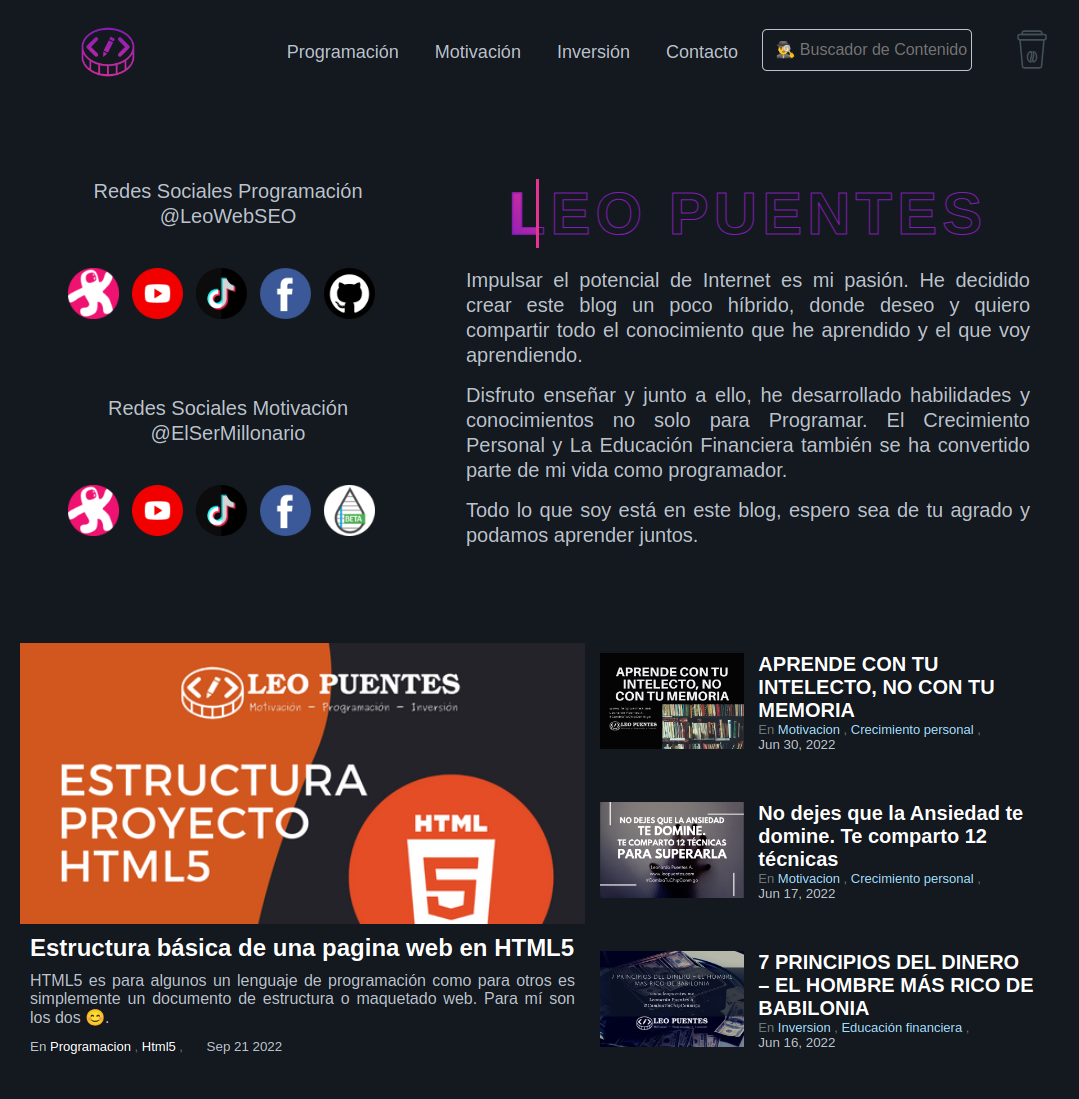
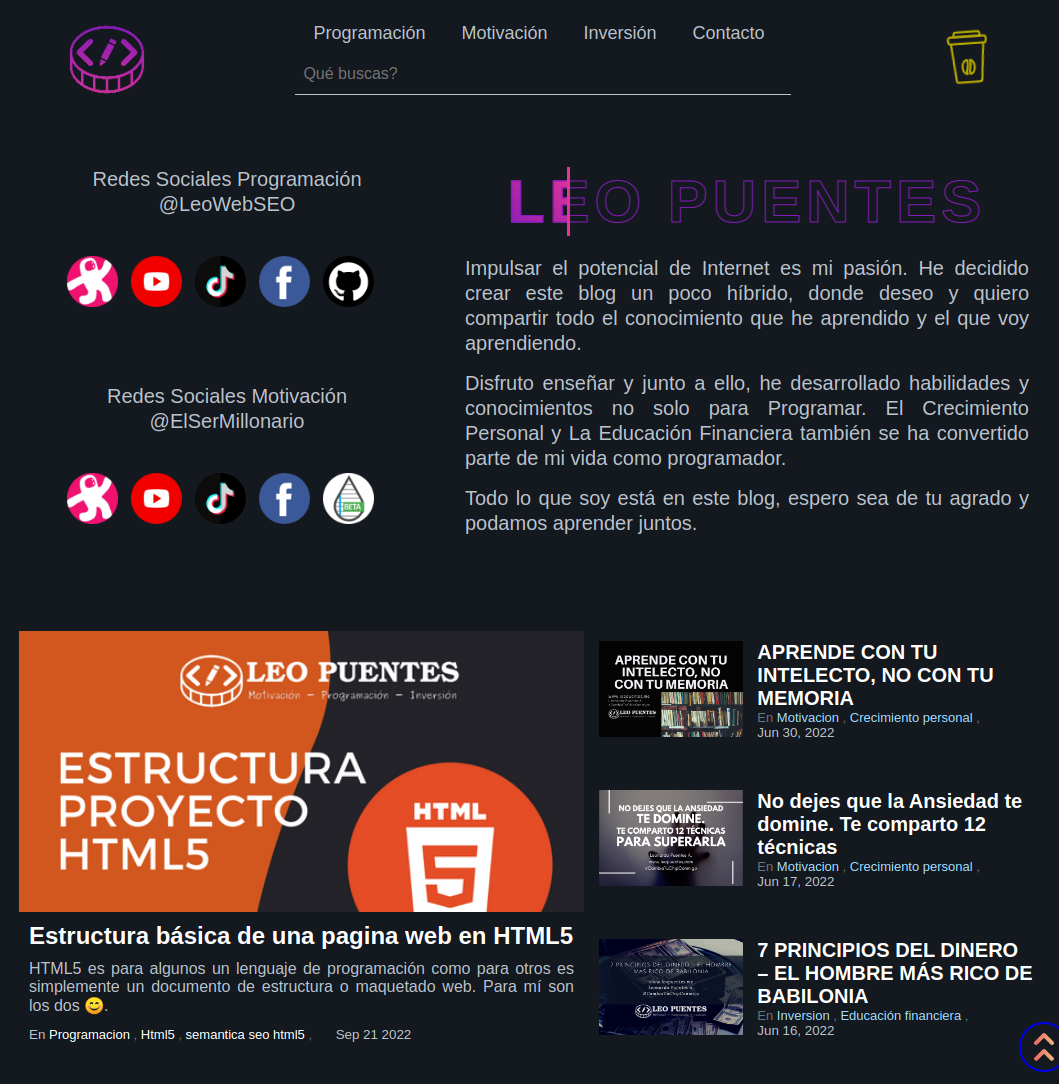
Version 2.0.0 Alpha - Produccion

diff --git a/_site/categorias.html b/_site/categorias.html
@@ -937,7 +937,7 @@
 <a href="/"><img src="/assets/images/logo/logo-leo-puentes.webp" alt="logo leo puentes"></a>
 <span>
     Copyright © 2022</a> By <a target="_blank" href="https://www.facebook.com/LeoWebSEO"><b>Leo Web SEO</b></a>.<br/>
-    Plantilla Hooka v1.0.9 Alpha
+    Plantilla Hooka v2.0.0 Alpha
 </span>
 <span>
     Desarrollado con <a target="_blank" href="https://jekyllrb.com/">Jekyll</a> - Servido por <a target="_blank" href="https://ipfs.io/"> IPFS</a>

diff --git a/_site/crecimiento-personal/5-habitos-exito.html b/_site/crecimiento-personal/5-habitos-exito.html
@@ -241,7 +241,7 @@
 <a href="/"><img src="/assets/images/logo/logo-leo-puentes.webp" alt="logo leo puentes"></a>
 <span>
     Copyright © 2022</a> By <a target="_blank" href="https://www.facebook.com/LeoWebSEO"><b>Leo Web SEO</b></a>.<br/>
-    Plantilla Hooka v1.0.9 Alpha
+    Plantilla Hooka v2.0.0 Alpha
 </span>
 <span>
     Desarrollado con <a target="_blank" href="https://jekyllrb.com/">Jekyll</a> - Servido por <a target="_blank" href="https://ipfs.io/"> IPFS</a>

diff --git a/_site/crecimiento-personal/aprender-intelecto-memoria.html b/_site/crecimiento-personal/aprender-intelecto-memoria.html
@@ -255,7 +255,7 @@
 <a href="/"><img src="/assets/images/logo/logo-leo-puentes.webp" alt="logo leo puentes"></a>
 <span>
     Copyright © 2022</a> By <a target="_blank" href="https://www.facebook.com/LeoWebSEO"><b>Leo Web SEO</b></a>.<br/>
-    Plantilla Hooka v1.0.9 Alpha
+    Plantilla Hooka v2.0.0 Alpha
 </span>
 <span>
     Desarrollado con <a target="_blank" href="https://jekyllrb.com/">Jekyll</a> - Servido por <a target="_blank" href="https://ipfs.io/"> IPFS</a>

diff --git a/_site/crecimiento-personal/constancia-inicio-exito.html b/_site/crecimiento-personal/constancia-inicio-exito.html
@@ -257,7 +257,7 @@
 <a href="/"><img src="/assets/images/logo/logo-leo-puentes.webp" alt="logo leo puentes"></a>
 <span>
     Copyright © 2022</a> By <a target="_blank" href="https://www.facebook.com/LeoWebSEO"><b>Leo Web SEO</b></a>.<br/>
-    Plantilla Hooka v1.0.9 Alpha
+    Plantilla Hooka v2.0.0 Alpha
 </span>
 <span>
     Desarrollado con <a target="_blank" href="https://jekyllrb.com/">Jekyll</a> - Servido por <a target="_blank" href="https://ipfs.io/"> IPFS</a>

diff --git a/_site/crecimiento-personal/dejar-superar-ansiedad.html b/_site/crecimiento-personal/dejar-superar-ansiedad.html
@@ -426,7 +426,7 @@
 <a href="/"><img src="/assets/images/logo/logo-leo-puentes.webp" alt="logo leo puentes"></a>
 <span>
     Copyright © 2022</a> By <a target="_blank" href="https://www.facebook.com/LeoWebSEO"><b>Leo Web SEO</b></a>.<br/>
-    Plantilla Hooka v1.0.9 Alpha
+    Plantilla Hooka v2.0.0 Alpha
 </span>
 <span>
     Desarrollado con <a target="_blank" href="https://jekyllrb.com/">Jekyll</a> - Servido por <a target="_blank" href="https://ipfs.io/"> IPFS</a>

diff --git a/_site/crecimiento-personal/poder-mente-sueños-reales.html b/_site/crecimiento-personal/poder-mente-sueños-reales.html
@@ -233,7 +233,7 @@
 <a href="/"><img src="/assets/images/logo/logo-leo-puentes.webp" alt="logo leo puentes"></a>
 <span>
     Copyright © 2022</a> By <a target="_blank" href="https://www.facebook.com/LeoWebSEO"><b>Leo Web SEO</b></a>.<br/>
-    Plantilla Hooka v1.0.9 Alpha
+    Plantilla Hooka v2.0.0 Alpha
 </span>
 <span>
     Desarrollado con <a target="_blank" href="https://jekyllrb.com/">Jekyll</a> - Servido por <a target="_blank" href="https://ipfs.io/"> IPFS</a>

diff --git a/_site/educacion-financiera/principios-dinero-hombre-rico-babilonia.html b/_site/educacion-financiera/principios-dinero-hombre-rico-babilonia.html
@@ -441,7 +441,7 @@
 <a href="/"><img src="/assets/images/logo/logo-leo-puentes.webp" alt="logo leo puentes"></a>
 <span>
     Copyright © 2022</a> By <a target="_blank" href="https://www.facebook.com/LeoWebSEO"><b>Leo Web SEO</b></a>.<br/>
-    Plantilla Hooka v1.0.9 Alpha
+    Plantilla Hooka v2.0.0 Alpha
 </span>
 <span>
     Desarrollado con <a target="_blank" href="https://jekyllrb.com/">Jekyll</a> - Servido por <a target="_blank" href="https://ipfs.io/"> IPFS</a>

diff --git a/_site/index.html b/_site/index.html
@@ -277,7 +277,7 @@
 <a href="/"><img src="/assets/images/logo/logo-leo-puentes.webp" alt="logo leo puentes"></a>
 <span>
     Copyright © 2022</a> By <a target="_blank" href="https://www.facebook.com/LeoWebSEO"><b>Leo Web SEO</b></a>.<br/>
-    Plantilla Hooka v1.0.9 Alpha
+    Plantilla Hooka v2.0.0 Alpha
 </span>
 <span>
     Desarrollado con <a target="_blank" href="https://jekyllrb.com/">Jekyll</a> - Servido por <a target="_blank" href="https://ipfs.io/"> IPFS</a>

diff --git a/_includes/footer.html b/_includes/footer.html
@@ -6,7 +6,7 @@
 <a href="/"><img src="{{ site.logo-pie }}" alt="logo leo puentes"></a>
 <span>
     Copyright © {{ site.time | date: "%Y" }}</a> By <a target="_blank" href="https://www.facebook.com/LeoWebSEO"><b>Leo Web SEO</b></a>.<br/>
-    Plantilla Hooka v1.0.9 Alpha
+    Plantilla Hooka v2.0.0 Alpha
 </span>
 <span>
     Desarrollado con <a target="_blank" href="https://jekyllrb.com/">Jekyll</a> - Servido por <a target="_blank" href="https://ipfs.io/"> IPFS</a>

diff --git a/README.md b/README.md
@@ -1,4 +1,4 @@
-# Jekyll Plantilla Hooka v1.0.10 Alpha
+# Jekyll Plantilla Hooka v2.0.0 Alpha
 
 Tema diseñado y desarrollado por [LeoWebSEO](https://leopuentes.me),
 
@@ -38,27 +38,12 @@ sass --wacth asset/sass/nom_style.sass:assets/css/nom_style.css
 ## Desarrollado y Creado con Jekyl + Forestry
 ## Características & Descripción
 
-### Hooka v1.0.0 Alpha
-- Mobile Responsive (Smartphone 480px/767px | Tablet: 768px/1023px | PC & Laptop: > 1024px)
-- Sitemap y feed automático
-- Atributos SEO para el index.html y entradas de blog
-- Optimizado para motores de búsqueda
-- Tema oscuro, no contiene tema claro
-- Panel de Últimas entradas
-- Sistema de compartido Open Graph data Facebook y Twitter Cards
-- Input de búsqueda no funcional (fallo en el plugin)
-- Cache con expiración de 90 días
+### Hooka V2.0.0 Alpha
+- Aumento de la seguridad: Implemento [Secure Headers 6.5](https://github.com/github/secure_headers).
+- Se ha especificado la url canonical y las url's alternativas, mejorando el SEO.
+- Limitar resolucion en pantallas grandes a 1300px. Mejora visual en pantallas grandes.
 
-### Hooka v1.0.4 Alpha
-- Url's configuradas para funcionar en IPFS
-- Mejoras Visuales para dispositivos mobiles
-    * Vista de post en una sola grilla
-    * Tamaños de fuentes reducidas
-    * Alineacion de titulos desfasados
-- Post recomendados al final de cada post ajustados a una sola grilla
-- Ajuste tamaño a imagenes de post 512 x 431 px
-
-### Hooka v1.0.10 Alpha
+### Hooka V1.0.10 Alpha
 - Creación de Breadcrumbs en entradas de post
     * El codigo base es de https://jekyllcodex.org/without-plugin/breadcrumbs/#, las variaciones fueron pequeñas para adaptarlo en poder listar las categorías.
     * Para evitar inconvenientes; si el permalink tiene más de 1 nivel de profundidad, se debe de crear como categoría sin los guiones(-)
@@ -68,6 +53,26 @@ sass --wacth asset/sass/nom_style.sass:assets/css/nom_style.css
 - Barra de progreso de lectura para las páginas de contenido post
 - Config. CDN Prism para dar Color a las etiquetas en el bloque de código (colores de consola)
 - Configuracion de URL's canonical y alternativas
+
+### Hooka V1.0.4 Alpha
+- Url's configuradas para funcionar en IPFS
+- Mejoras Visuales para dispositivos mobiles
+    * Vista de post en una sola grilla
+    * Tamaños de fuentes reducidas
+    * Alineacion de titulos desfasados
+- Post recomendados al final de cada post ajustados a una sola grilla
+- Ajuste tamaño a imagenes de post 512 x 431 px
+
+### Hooka V1.0.0 Alpha
+- Mobile Responsive (Smartphone 480px/767px | Tablet: 768px/1023px | PC & Laptop: > 1024px)
+- Sitemap y feed automático
+- Atributos SEO para el index.html y entradas de blog
+- Optimizado para motores de búsqueda
+- Tema oscuro, no contiene tema claro
+- Panel de Últimas entradas
+- Sistema de compartido Open Graph data Facebook y Twitter Cards
+- Input de búsqueda no funcional (fallo en el plugin)
+- Cache con expiración de 90 días
 
 ## LICENCIA
 
